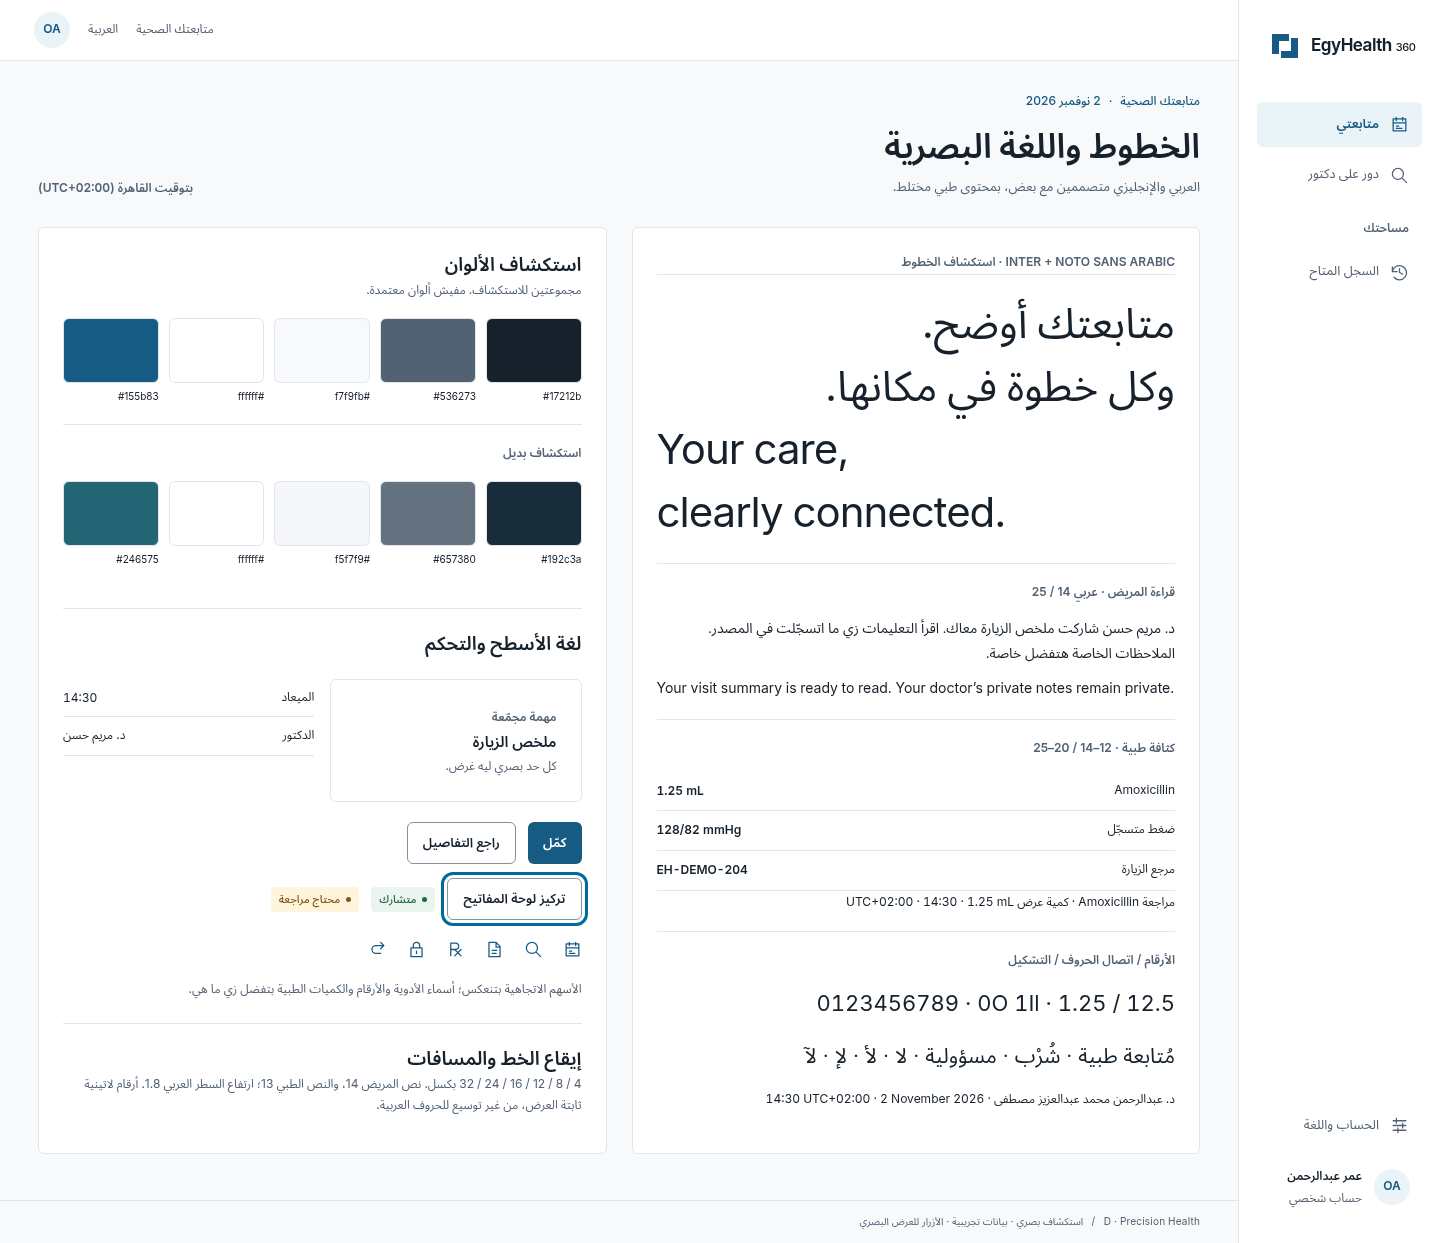
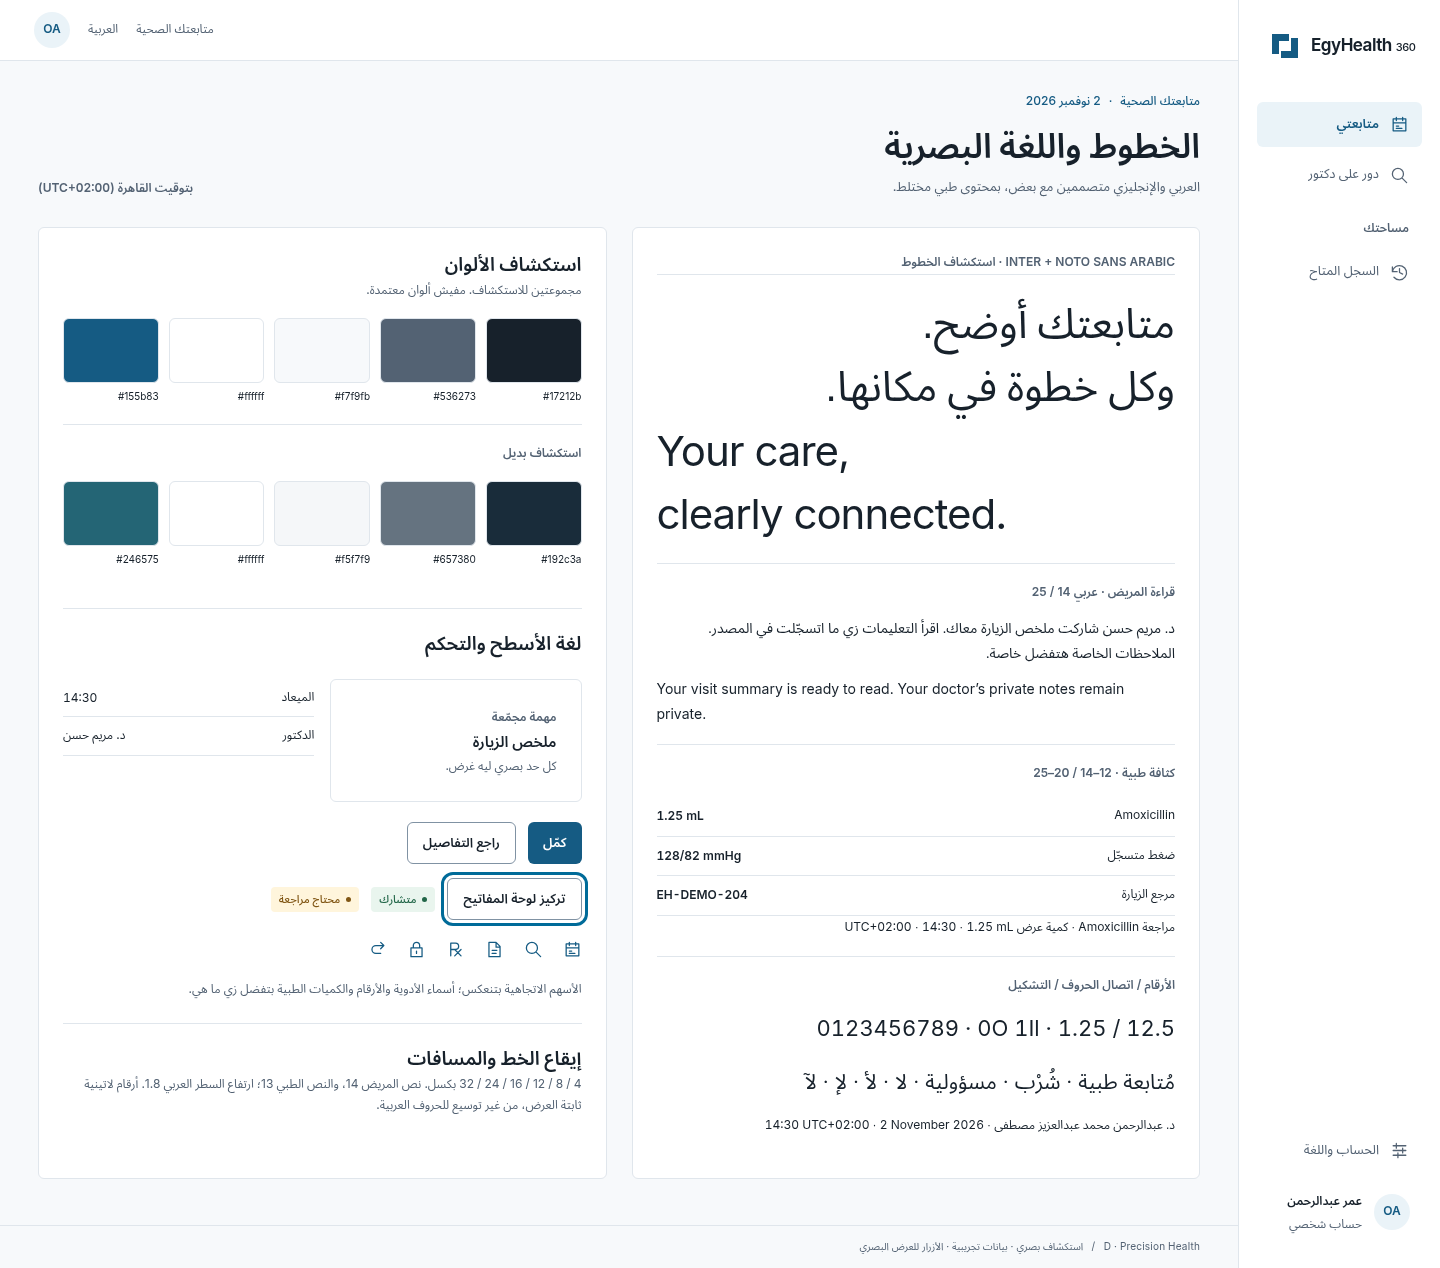
design: refine bilingual typography specimen rendering

diff --git a/docs/visual-directions-v2/screens.css b/docs/visual-directions-v2/screens.css
@@ -17,3 +17,4 @@
 @media(max-width:800px){.f .patient-grid .appointment .appt-inner{display:grid;grid-template-columns:minmax(0,1fr) auto;gap:0 12px;align-items:center}.f .patient-grid .appointment .appt-date{grid-column:2;grid-row:1}.f .patient-grid .appointment .date-tile{display:none}.f .patient-grid .appointment .appt-date .small{font-size:10px;max-width:95px}.f .patient-grid .appointment .appt-time{font-size:29px}.f .patient-grid .appointment .doctor{grid-column:1;grid-row:1;margin-block:10px}.f .patient-grid .appointment .doctor .avatar{display:none}.f .patient-grid .appointment .doctor h2{font-size:17px}.f .patient-grid .appointment .doctor .small{font-size:11px}.f .patient-grid .appointment .btn{grid-column:1/-1}.f .patient-grid .appointment .appt-heading{margin-bottom:8px}.f .patient-grid .care-list{order:1}.f .patient-grid .followup{order:2}.f .mobile-bottom .nav-item.active{background:transparent;border-top:2px solid var(--accent);border-radius:0}.f .mobile-bottom .nav-item{border-top:2px solid transparent}}
 .search-field input:focus-visible{outline:3px solid var(--focus);outline-offset:3px}
 .slot{color:var(--ink)}.e .appointment .btn:focus-visible{outline-color:#fff}.f .appointment .btn:focus-visible{outline-color:#155b83}
+.swatch span{direction:ltr;unicode-bidi:isolate;display:inline-block}.type-grid [lang=en]{font-family:var(--latin),sans-serif}.type-grid [lang=ar]{font-family:var(--arabic),sans-serif}
